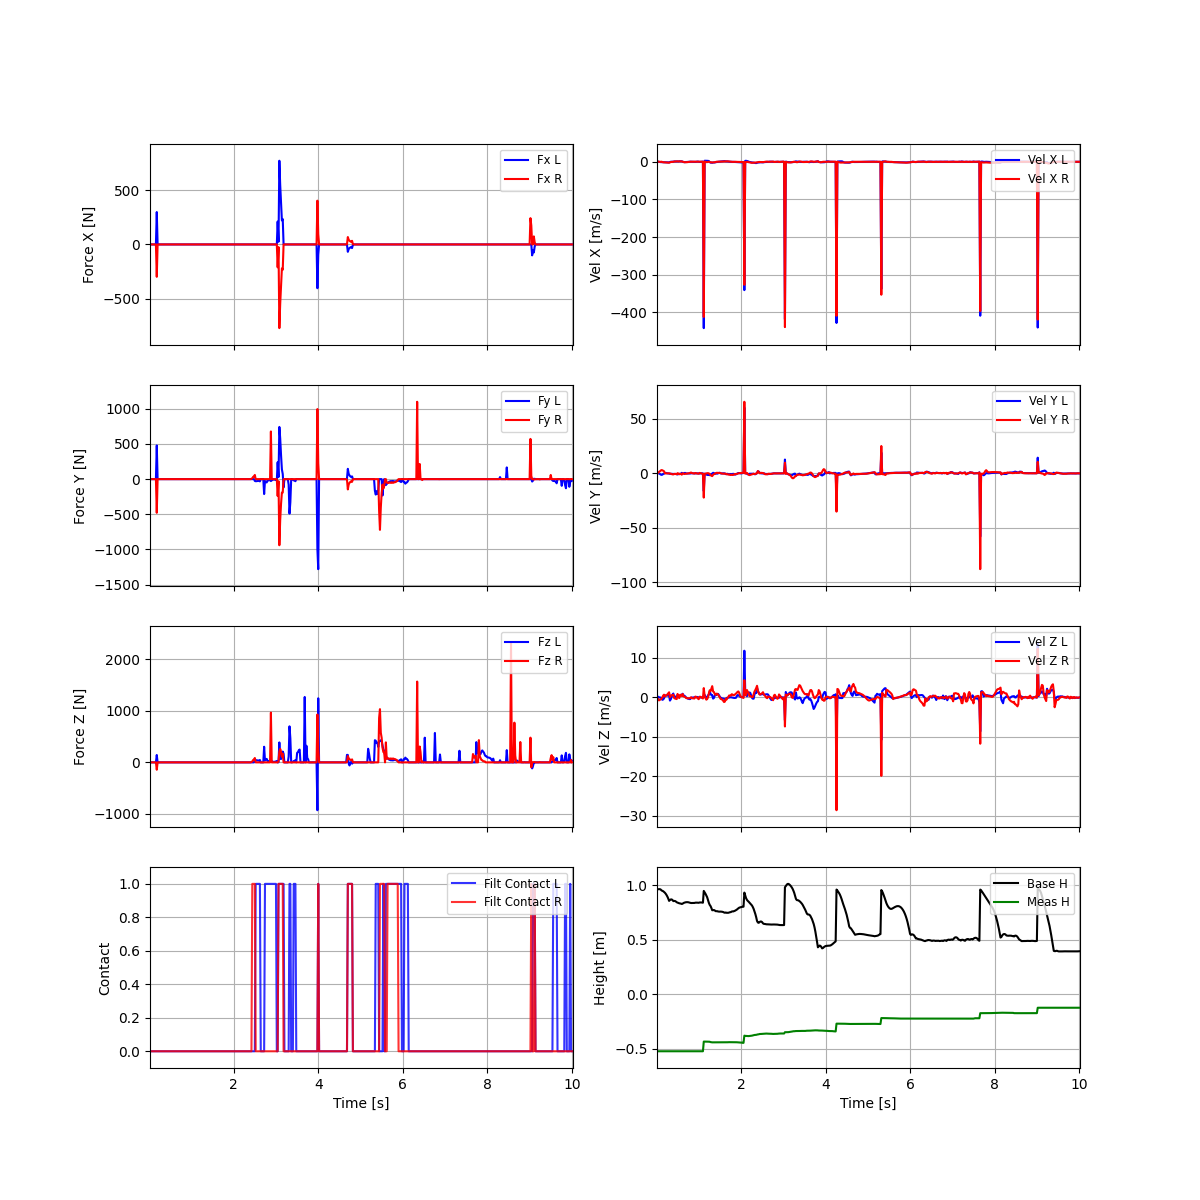
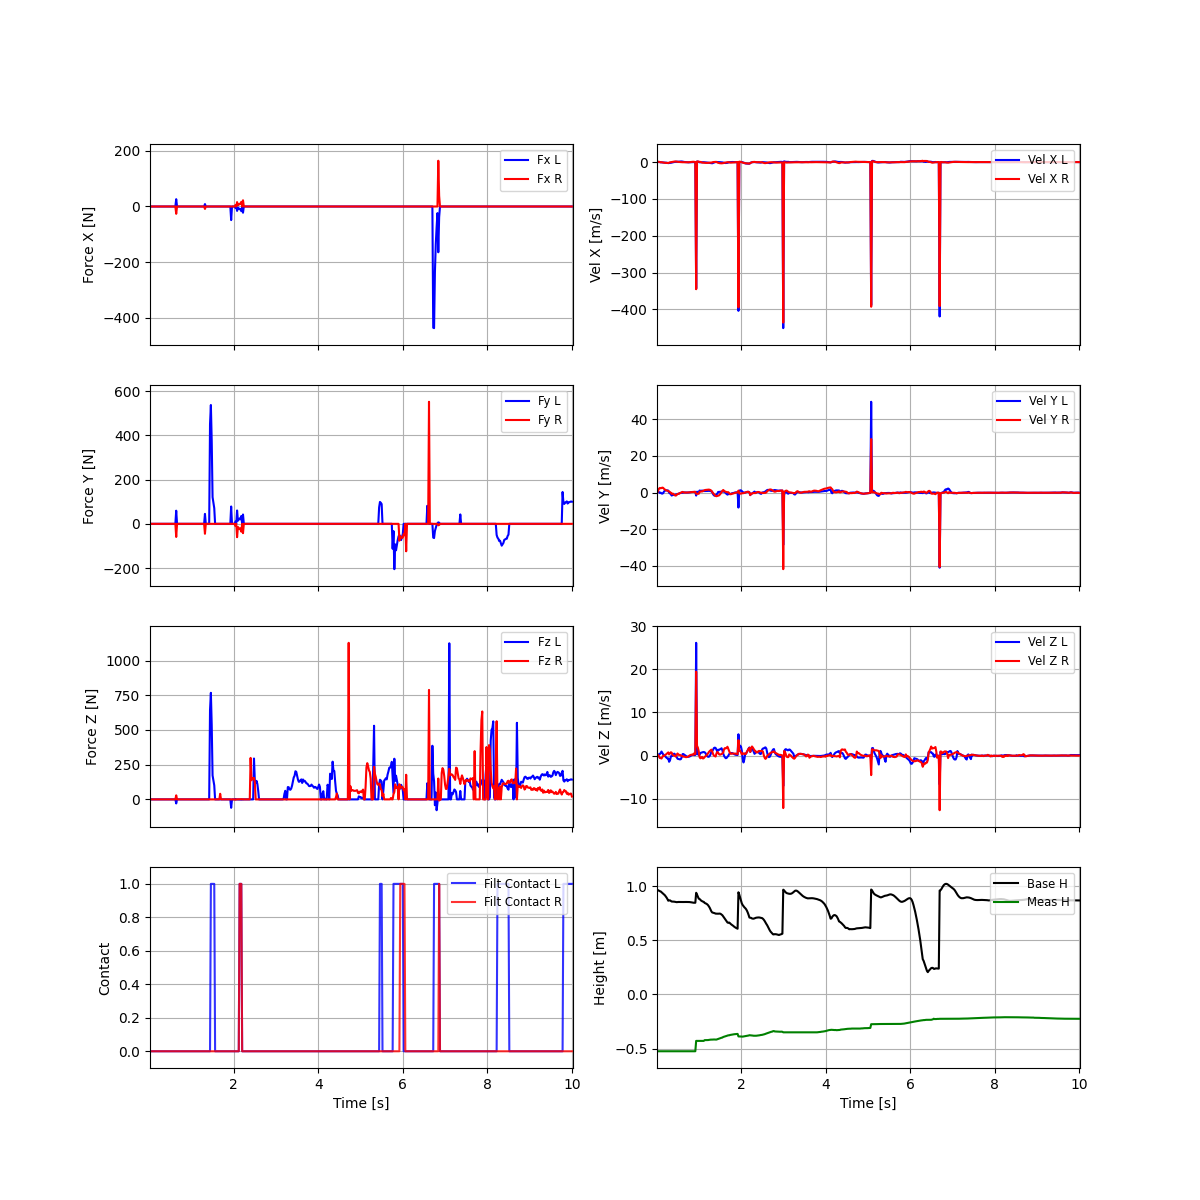
【降低阈值】

diff --git a/legged_gym/envs/wheelfoot_flat/wheelfoot_flat_config.py b/legged_gym/envs/wheelfoot_flat/wheelfoot_flat_config.py
@@ -225,7 +225,7 @@ class BipedCfgWF(BaseConfig):
         max_push_vel_xy = 1.0
     
     class ctbc:
-        force_threshold = 50.0
+        force_threshold = 20.0
         history_length = 2
 
     class rewards:
